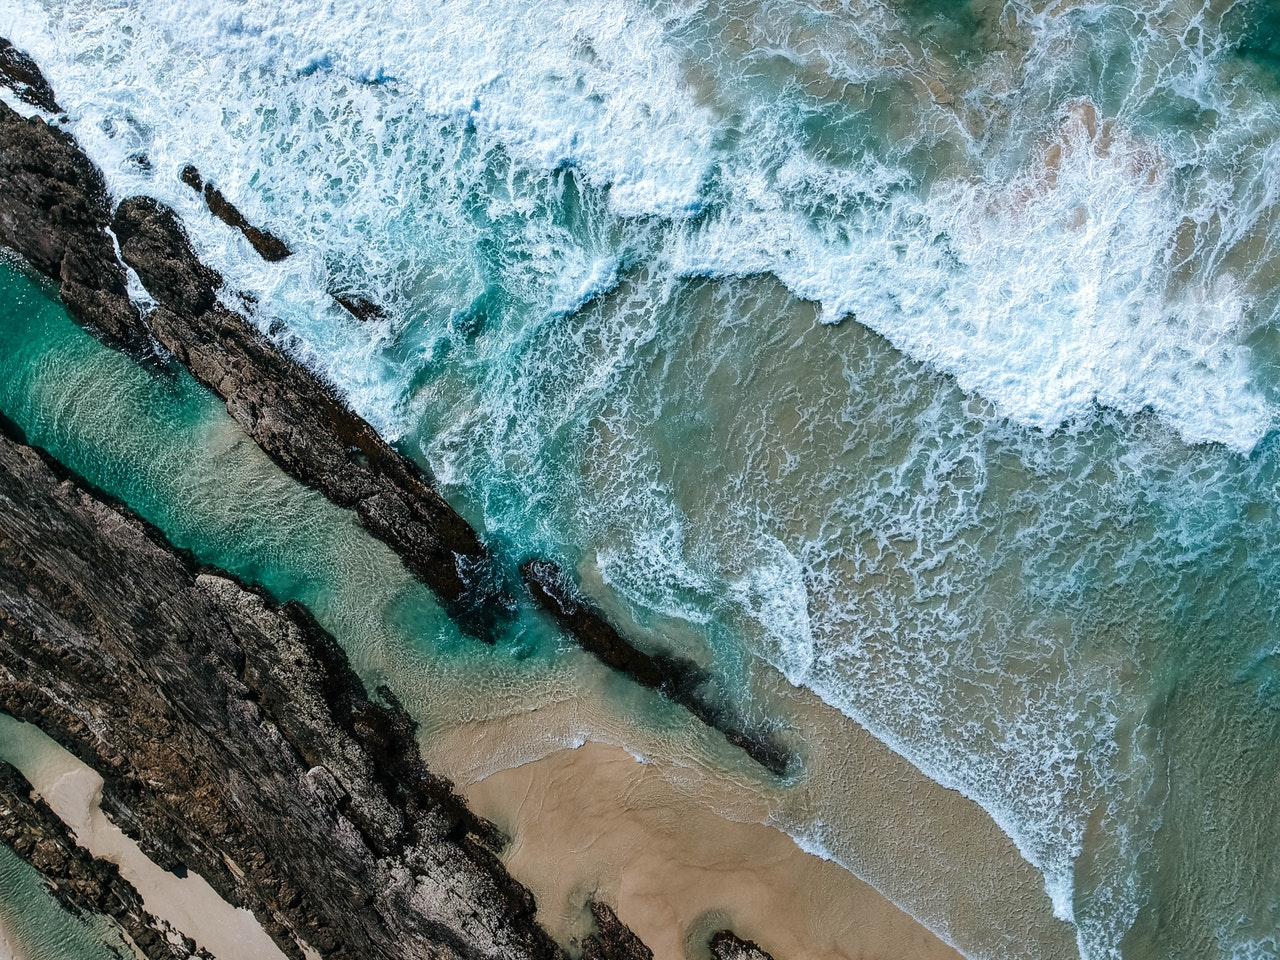
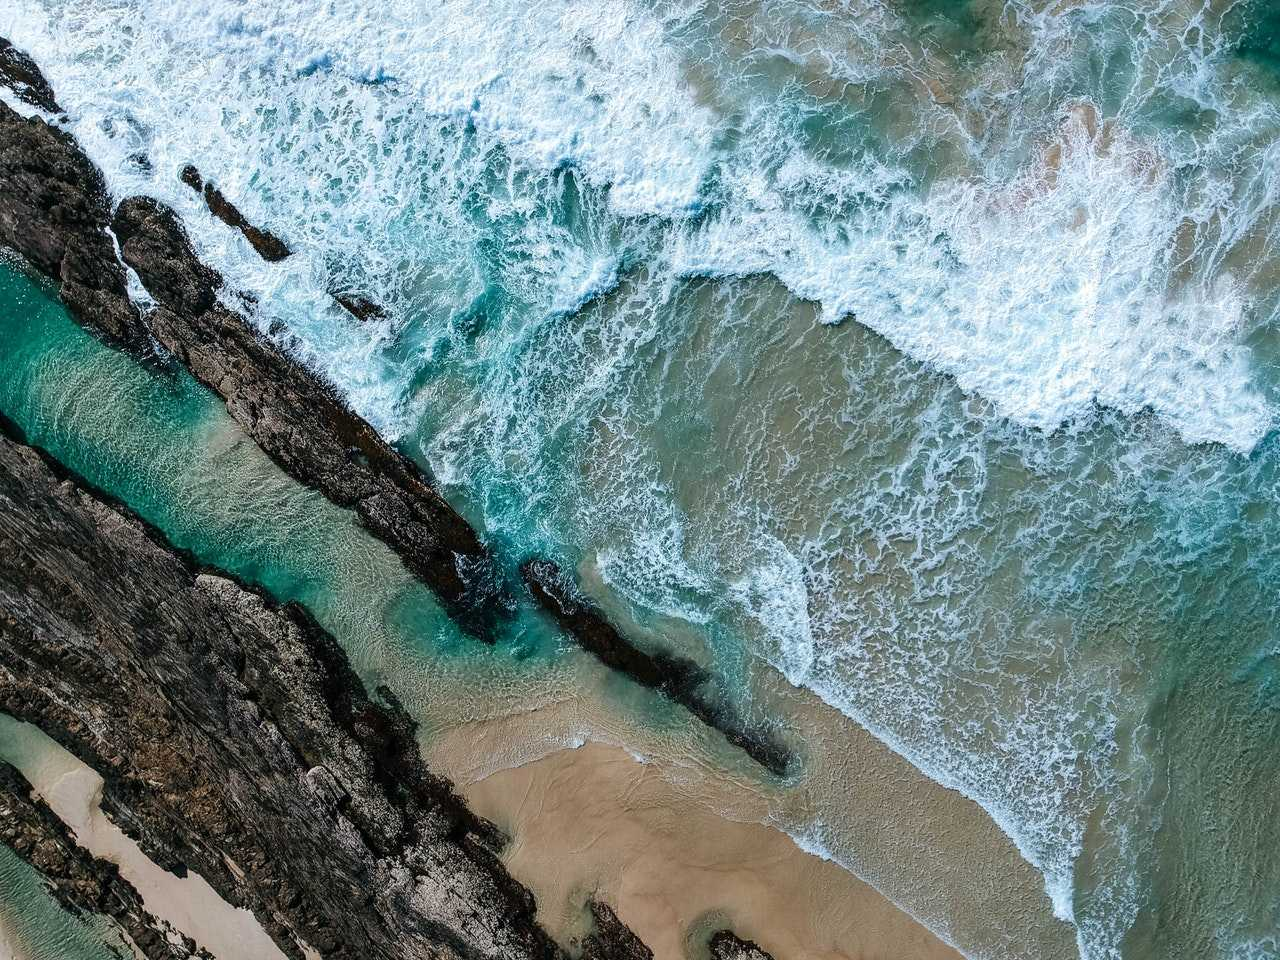
final tweaks and hero image size reduction

diff --git a/404.html b/404.html
@@ -3,12 +3,9 @@
 	<head lang="en-GB">
 		<meta charset="utf-8">
 		<meta name="viewport" content="width=device-width, initial-scale=1.0">
-		<link href="https://fonts.googleapis.com/css?family=Hind+Madurai:400,700" rel="stylesheet">
-		<link rel="stylesheet" type="text/css" href="style.css">
+		<style>html{display:none;}</style>
 <!-- favicons -->
-		<link rel="apple-touch-icon" sizes="180x180" href="/apple-touch-icon.png">
 		<link rel="icon" type="image/png" sizes="32x32" href="/favicon-32x32.png">
-		<!-- <link rel="icon" type="image/png" sizes="16x16" href="/favicon-16x16.png"> -->
 		<link rel="manifest" href="/site.webmanifest">
 		<link rel="mask-icon" href="/safari-pinned-tab.svg" color="#222222">
 		<meta name="msapplication-TileColor" content="#e8c547">
@@ -46,7 +43,7 @@
 		<div id="form-success-container" class="container">
 			<div id="form-success-content" class="content">
 				<h4>Error 404 — So you like exploring, huh?</h4>
-				<p>That makes two of us. Let us know you found our 404 page and we'll give you <strong>10% off</strong> your next project.</p>
+				<p>You and me both. Let us know how you found our 404 page and we'll give you <strong>5% off</strong> your next project.</p>
 				<a href="contact.html"><button class="cta"><h3>Contact Us</h3></button></a>
 			</div>
 		</div>
@@ -68,6 +65,8 @@
 				<p class="footer-fineprint">&copy2018 Milestone Drones Ltd. All rights reserved.</p>
 			</div>
 		</footer>
+		<link href="https://fonts.googleapis.com/css?family=Hind+Madurai:400,700" rel="stylesheet">
+		<link rel="stylesheet" type="text/css" href="style.css">
 		<script src="code.js"></script>
 	</body>
 </html>

diff --git a/faq.html b/faq.html
@@ -5,9 +5,7 @@
 		<meta name="viewport" content="width=device-width, initial-scale=1.0">
 		<style>html{display:none;}</style>
 <!-- favicons -->
-		<link rel="apple-touch-icon" sizes="180x180" href="/apple-touch-icon.png">
 		<link rel="icon" type="image/png" sizes="32x32" href="/favicon-32x32.png">
-		<!-- <link rel="icon" type="image/png" sizes="16x16" href="/favicon-16x16.png"> -->
 		<link rel="manifest" href="/site.webmanifest">
 		<link rel="mask-icon" href="/safari-pinned-tab.svg" color="#222222">
 		<meta name="msapplication-TileColor" content="#e8c547">
@@ -105,6 +103,16 @@
 				<div class="faq-answer">
 					<p>
 						Yes, our pilots are qualified to fly at night. Night flying is subject to an on-site survey being undertaken during daylight hours.
+					</p>
+				</div>
+
+				<button class="faq-question"><h3>Can you fly indoors?</h3></button>
+				<div class="faq-answer">
+					<p>
+						Yes, provided there is enough space.
+					</p>
+					<p>
+						Indoor projects aren't subject to as many regulations, or the weather! It doesn't have to be flying either, our 360&deg; camera can take 5K video, perfect for interactive walkthrough tours.
 					</p>
 				</div>
 

diff --git a/privacy.html b/privacy.html
@@ -3,12 +3,9 @@
 	<head lang="en-GB">
 		<meta charset="utf-8">
 		<meta name="viewport" content="width=device-width, initial-scale=1.0">
-		<link href="https://fonts.googleapis.com/css?family=Hind+Madurai:400,700" rel="stylesheet">
-		<link rel="stylesheet" type="text/css" href="style.css">
+		<style>html{display:none;}</style>
 <!-- favicons -->
-		<link rel="apple-touch-icon" sizes="180x180" href="/apple-touch-icon.png">
 		<link rel="icon" type="image/png" sizes="32x32" href="/favicon-32x32.png">
-		<!-- <link rel="icon" type="image/png" sizes="16x16" href="/favicon-16x16.png"> -->
 		<link rel="manifest" href="/site.webmanifest">
 		<link rel="mask-icon" href="/safari-pinned-tab.svg" color="#222222">
 		<meta name="msapplication-TileColor" content="#e8c547">
@@ -106,6 +103,8 @@
 				<p class="footer-fineprint">&copy2018 Milestone Drones Ltd. All rights reserved.</p>
 			</div>
 		</footer>
+		<link href="https://fonts.googleapis.com/css?family=Hind+Madurai:400,700" rel="stylesheet">
+		<link rel="stylesheet" type="text/css" href="style.css">
 		<script src="code.js"></script>
 	</body>
 </html>

diff --git a/contact.html b/contact.html
@@ -3,12 +3,9 @@
 	<head lang="en-GB">
 		<meta charset="utf-8">
 		<meta name="viewport" content="width=device-width, initial-scale=1.0">
-		<link href="https://fonts.googleapis.com/css?family=Hind+Madurai:400,700" rel="stylesheet">
-		<link rel="stylesheet" type="text/css" href="style.css">
+		<style>html{display:none;}</style>
 <!-- favicons -->
-		<link rel="apple-touch-icon" sizes="180x180" href="/apple-touch-icon.png">
 		<link rel="icon" type="image/png" sizes="32x32" href="/favicon-32x32.png">
-		<!-- <link rel="icon" type="image/png" sizes="16x16" href="/favicon-16x16.png"> -->
 		<link rel="manifest" href="/site.webmanifest">
 		<link rel="mask-icon" href="/safari-pinned-tab.svg" color="#222222">
 		<meta name="msapplication-TileColor" content="#e8c547">
@@ -97,6 +94,8 @@
 				<p class="footer-fineprint">&copy2018 Milestone Drones Ltd. All rights reserved.</p>
 			</div>
 		</footer>
+		<link href="https://fonts.googleapis.com/css?family=Hind+Madurai:400,700" rel="stylesheet">
+		<link rel="stylesheet" type="text/css" href="style.css">
 		<script src="code.js"></script>
 	</body>
 </html>

diff --git a/thankyou.html b/thankyou.html
@@ -3,12 +3,9 @@
 	<head lang="en-GB">
 		<meta charset="utf-8">
 		<meta name="viewport" content="width=device-width, initial-scale=1.0">
-		<link href="https://fonts.googleapis.com/css?family=Hind+Madurai:400,700" rel="stylesheet">
-		<link rel="stylesheet" type="text/css" href="style.css">
+		<style>html{display:none;}</style>
 <!-- favicons -->
-		<link rel="apple-touch-icon" sizes="180x180" href="/apple-touch-icon.png">
 		<link rel="icon" type="image/png" sizes="32x32" href="/favicon-32x32.png">
-		<!-- <link rel="icon" type="image/png" sizes="16x16" href="/favicon-16x16.png"> -->
 		<link rel="manifest" href="/site.webmanifest">
 		<link rel="mask-icon" href="/safari-pinned-tab.svg" color="#222222">
 		<meta name="msapplication-TileColor" content="#e8c547">
@@ -68,6 +65,8 @@
 				<p class="footer-fineprint">&copy2018 Milestone Drones Ltd. All rights reserved.</p>
 			</div>
 		</footer>
+		<link href="https://fonts.googleapis.com/css?family=Hind+Madurai:400,700" rel="stylesheet">
+		<link rel="stylesheet" type="text/css" href="style.css">
 		<script src="code.js"></script>
 	</body>
 </html>

diff --git a/index.html b/index.html
@@ -5,9 +5,7 @@
 		<meta name="viewport" content="width=device-width, initial-scale=1.0">
 		<style>html{display:none;}</style>
 <!-- favicons -->
-		<link rel="apple-touch-icon" sizes="180x180" href="/apple-touch-icon.png">
 		<link rel="icon" type="image/png" sizes="32x32" href="/favicon-32x32.png">
-		<!-- <link rel="icon" type="image/png" sizes="16x16" href="/favicon-16x16.png"> -->
 		<link rel="manifest" href="/site.webmanifest">
 		<link rel="mask-icon" href="/safari-pinned-tab.svg" color="#222222">
 		<meta name="msapplication-TileColor" content="#e8c547">

diff --git a/style.css b/style.css
@@ -294,7 +294,7 @@ li.flex-card p{
 	flex-direction: row;
 	align-items: center;
 	justify-content: center;
-	margin: 2rem 0;
+	margin: 1.6rem 0;
 }
 .social-icon{
 	height: 1.5rem;
@@ -388,7 +388,7 @@ li.flex-card p{
 	left: -10vw;
 	width: 110vw;
 	height: 100%;
-	opacity: 0.4;
+	opacity: 0.3;
 	z-index: -2;
 	background-image: url(images/sea.jpeg);
 	background-position: 0% 40%;
